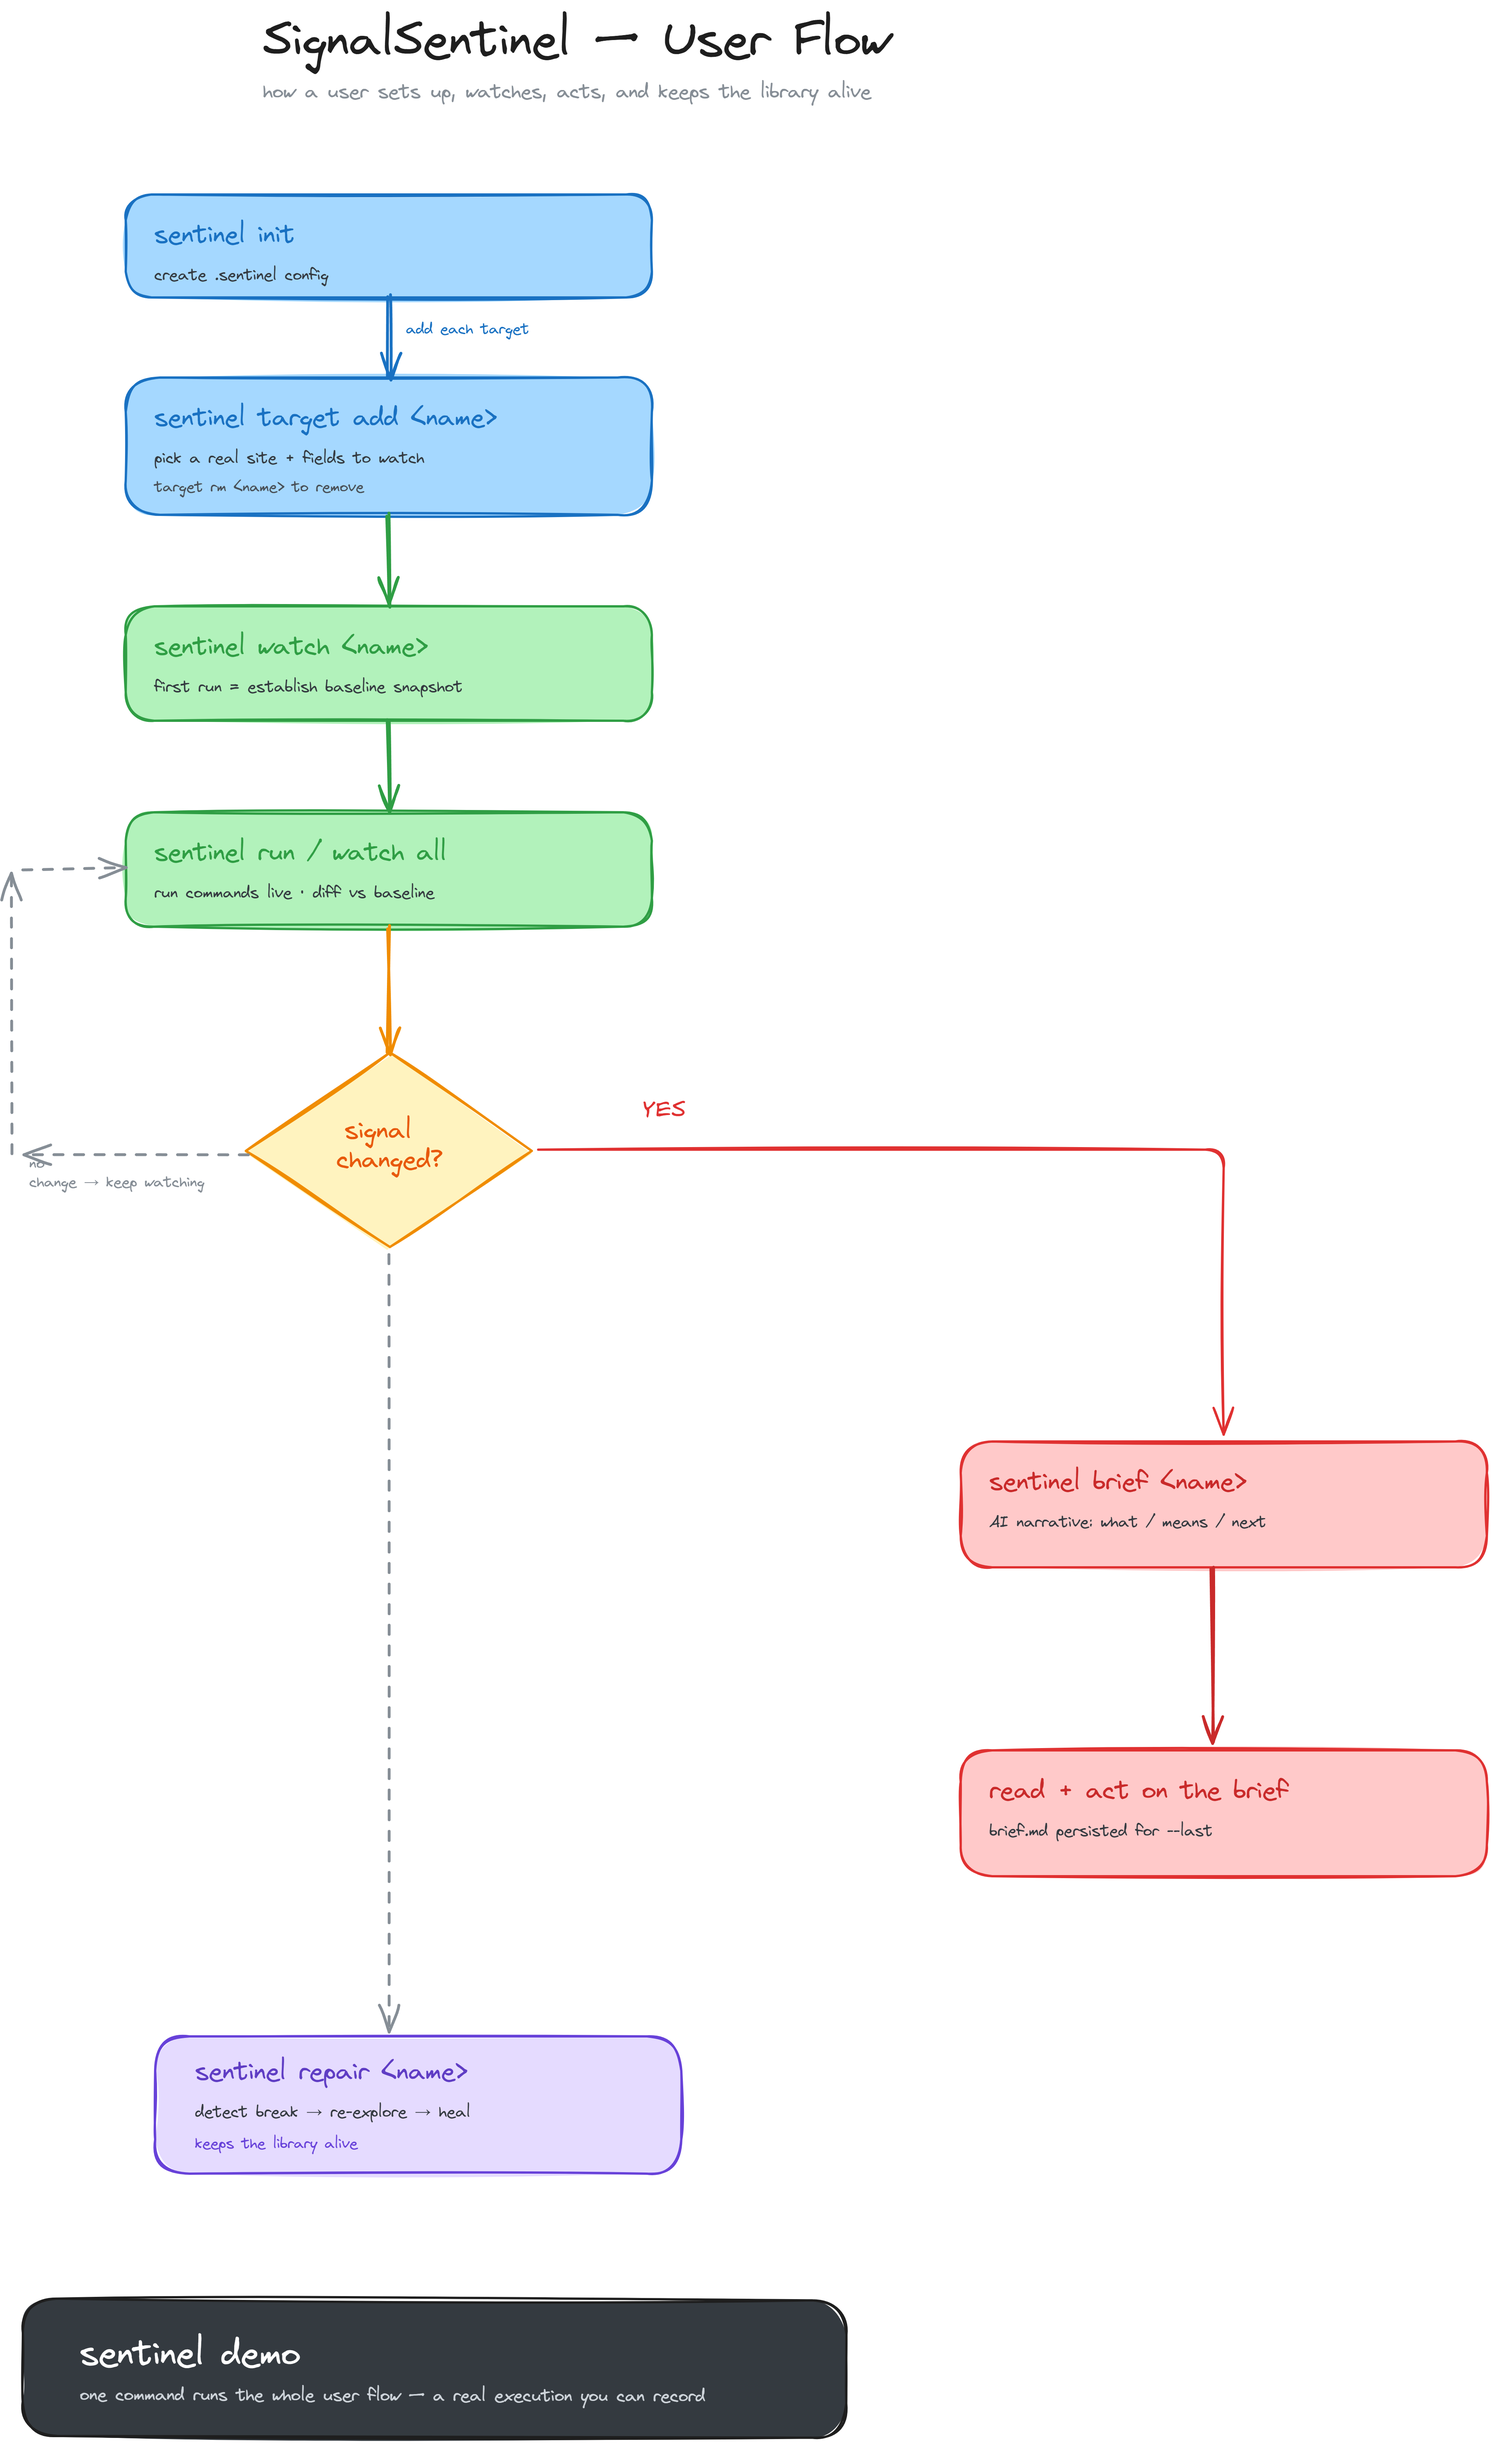
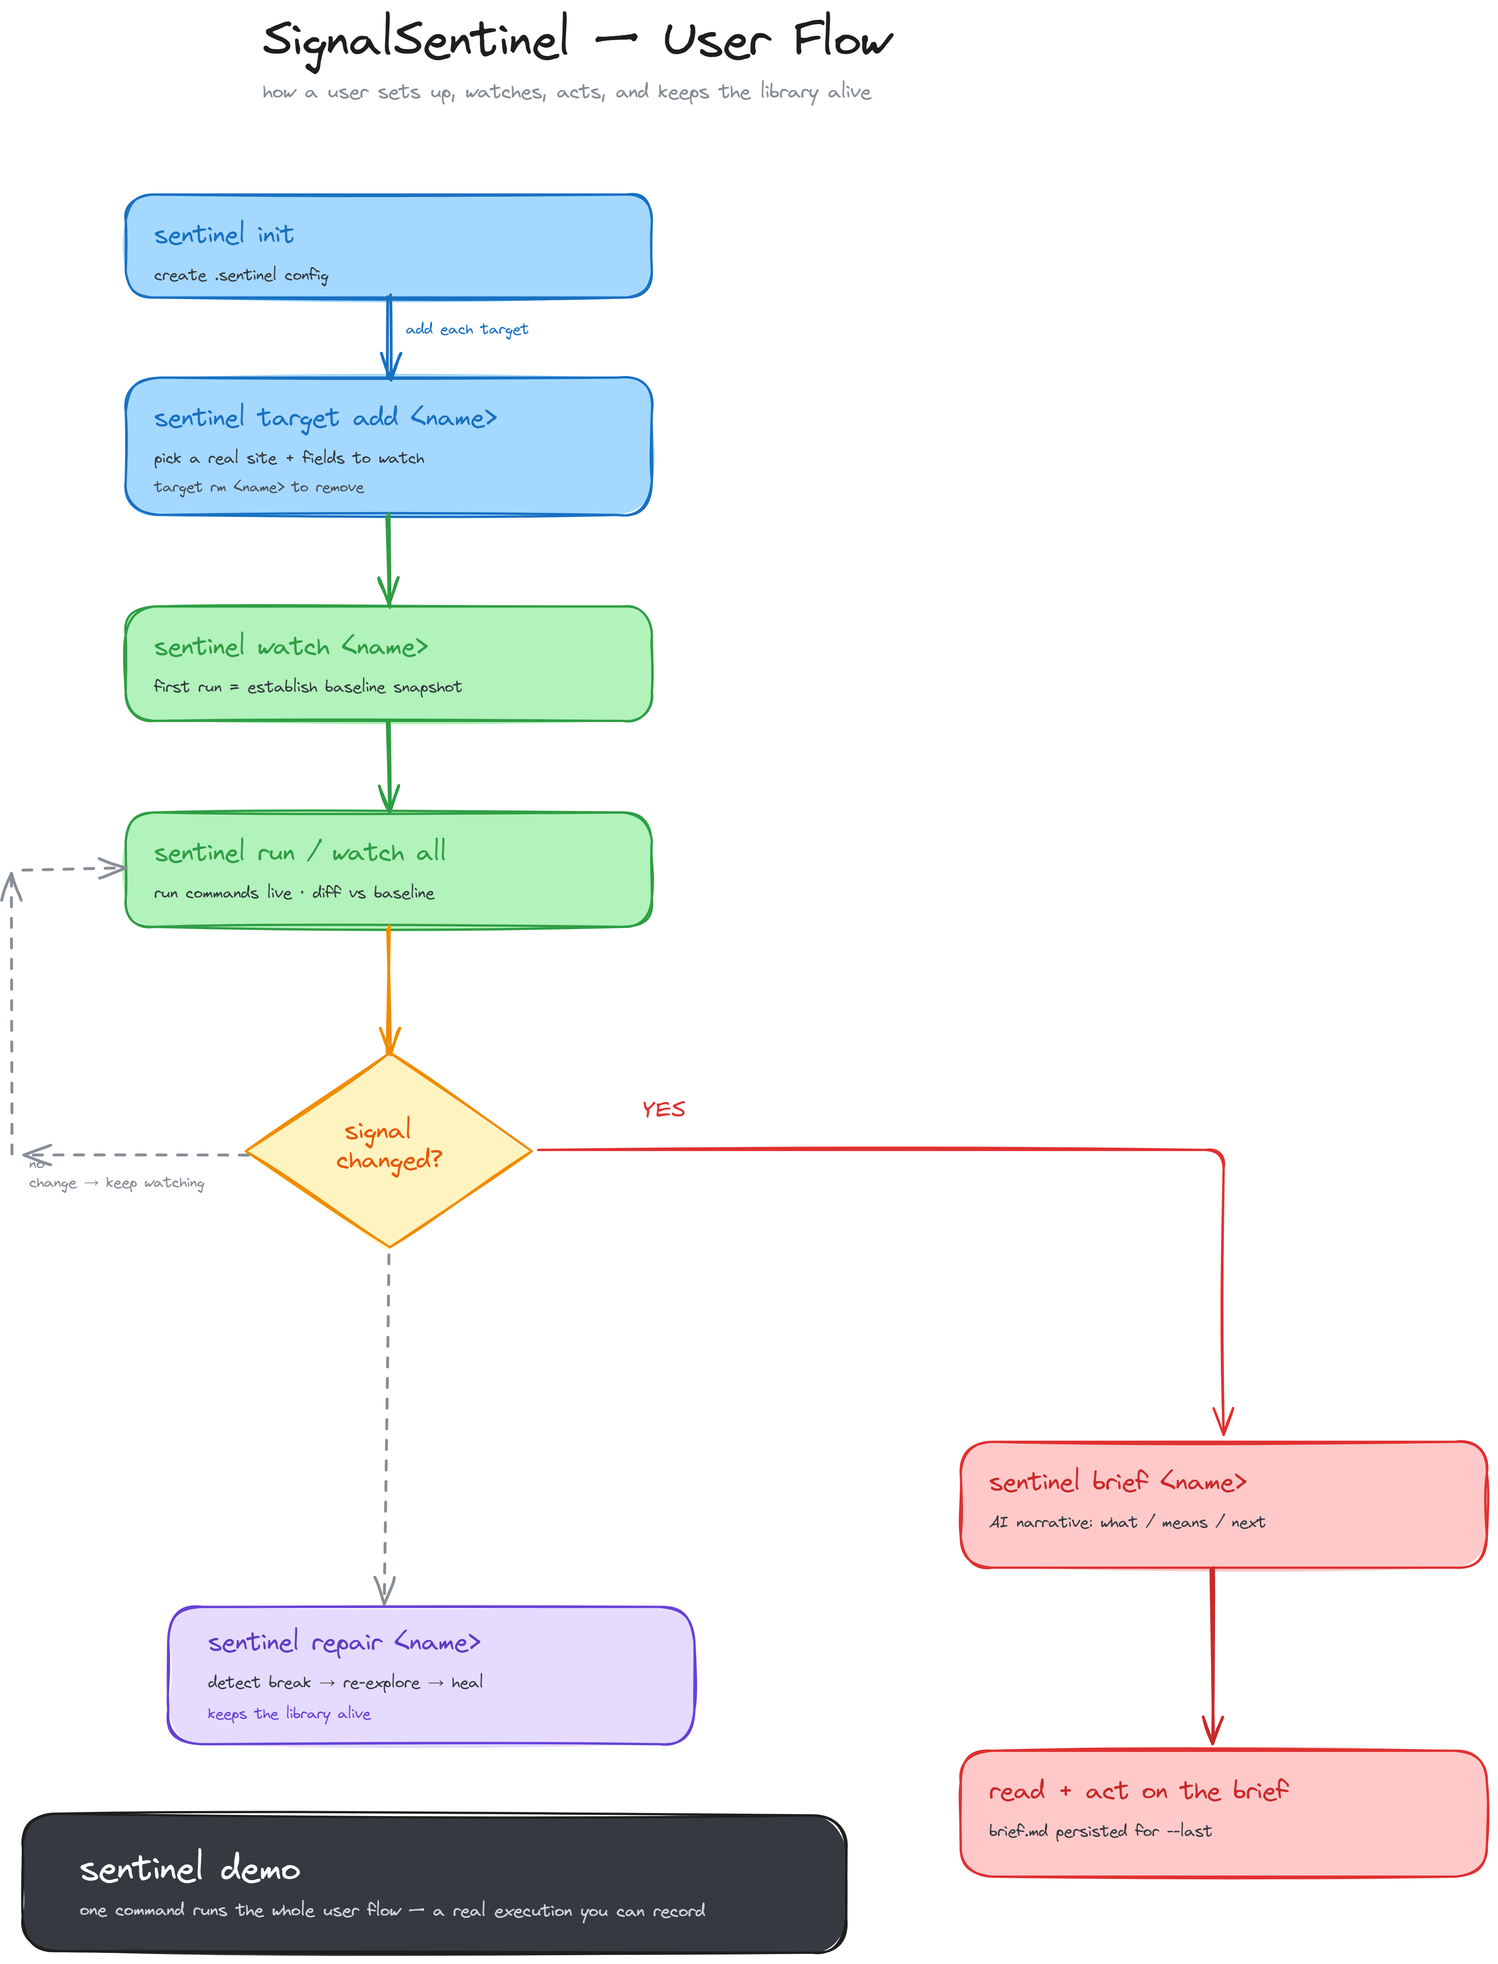
docs: show user-flow at natural aspect, no distortion
- Removed hard height=400 (distorted the portrait image)
- Display at width=500 (natural aspect, ~660px tall), wrapped in a link
  to open the full-resolution PNG
- Updated commands-reference.png to the new compact export

diff --git a/README.md b/README.md
@@ -64,7 +64,7 @@ flowchart LR
 
 <img src="demo-flow.png" alt="Demo flow" width="700"/>
 
-<img src="commands-reference.png" alt="User flow" width="700" height="400"/>
+<a href="commands-reference.png"><img src="commands-reference.png" alt="User flow" width="500" /></a>
 
 *Both diagrams are editable Excalidraw sources (Virgil handwritten font) — open in [excalidraw.com](https://excalidraw.com) to edit.*
 
